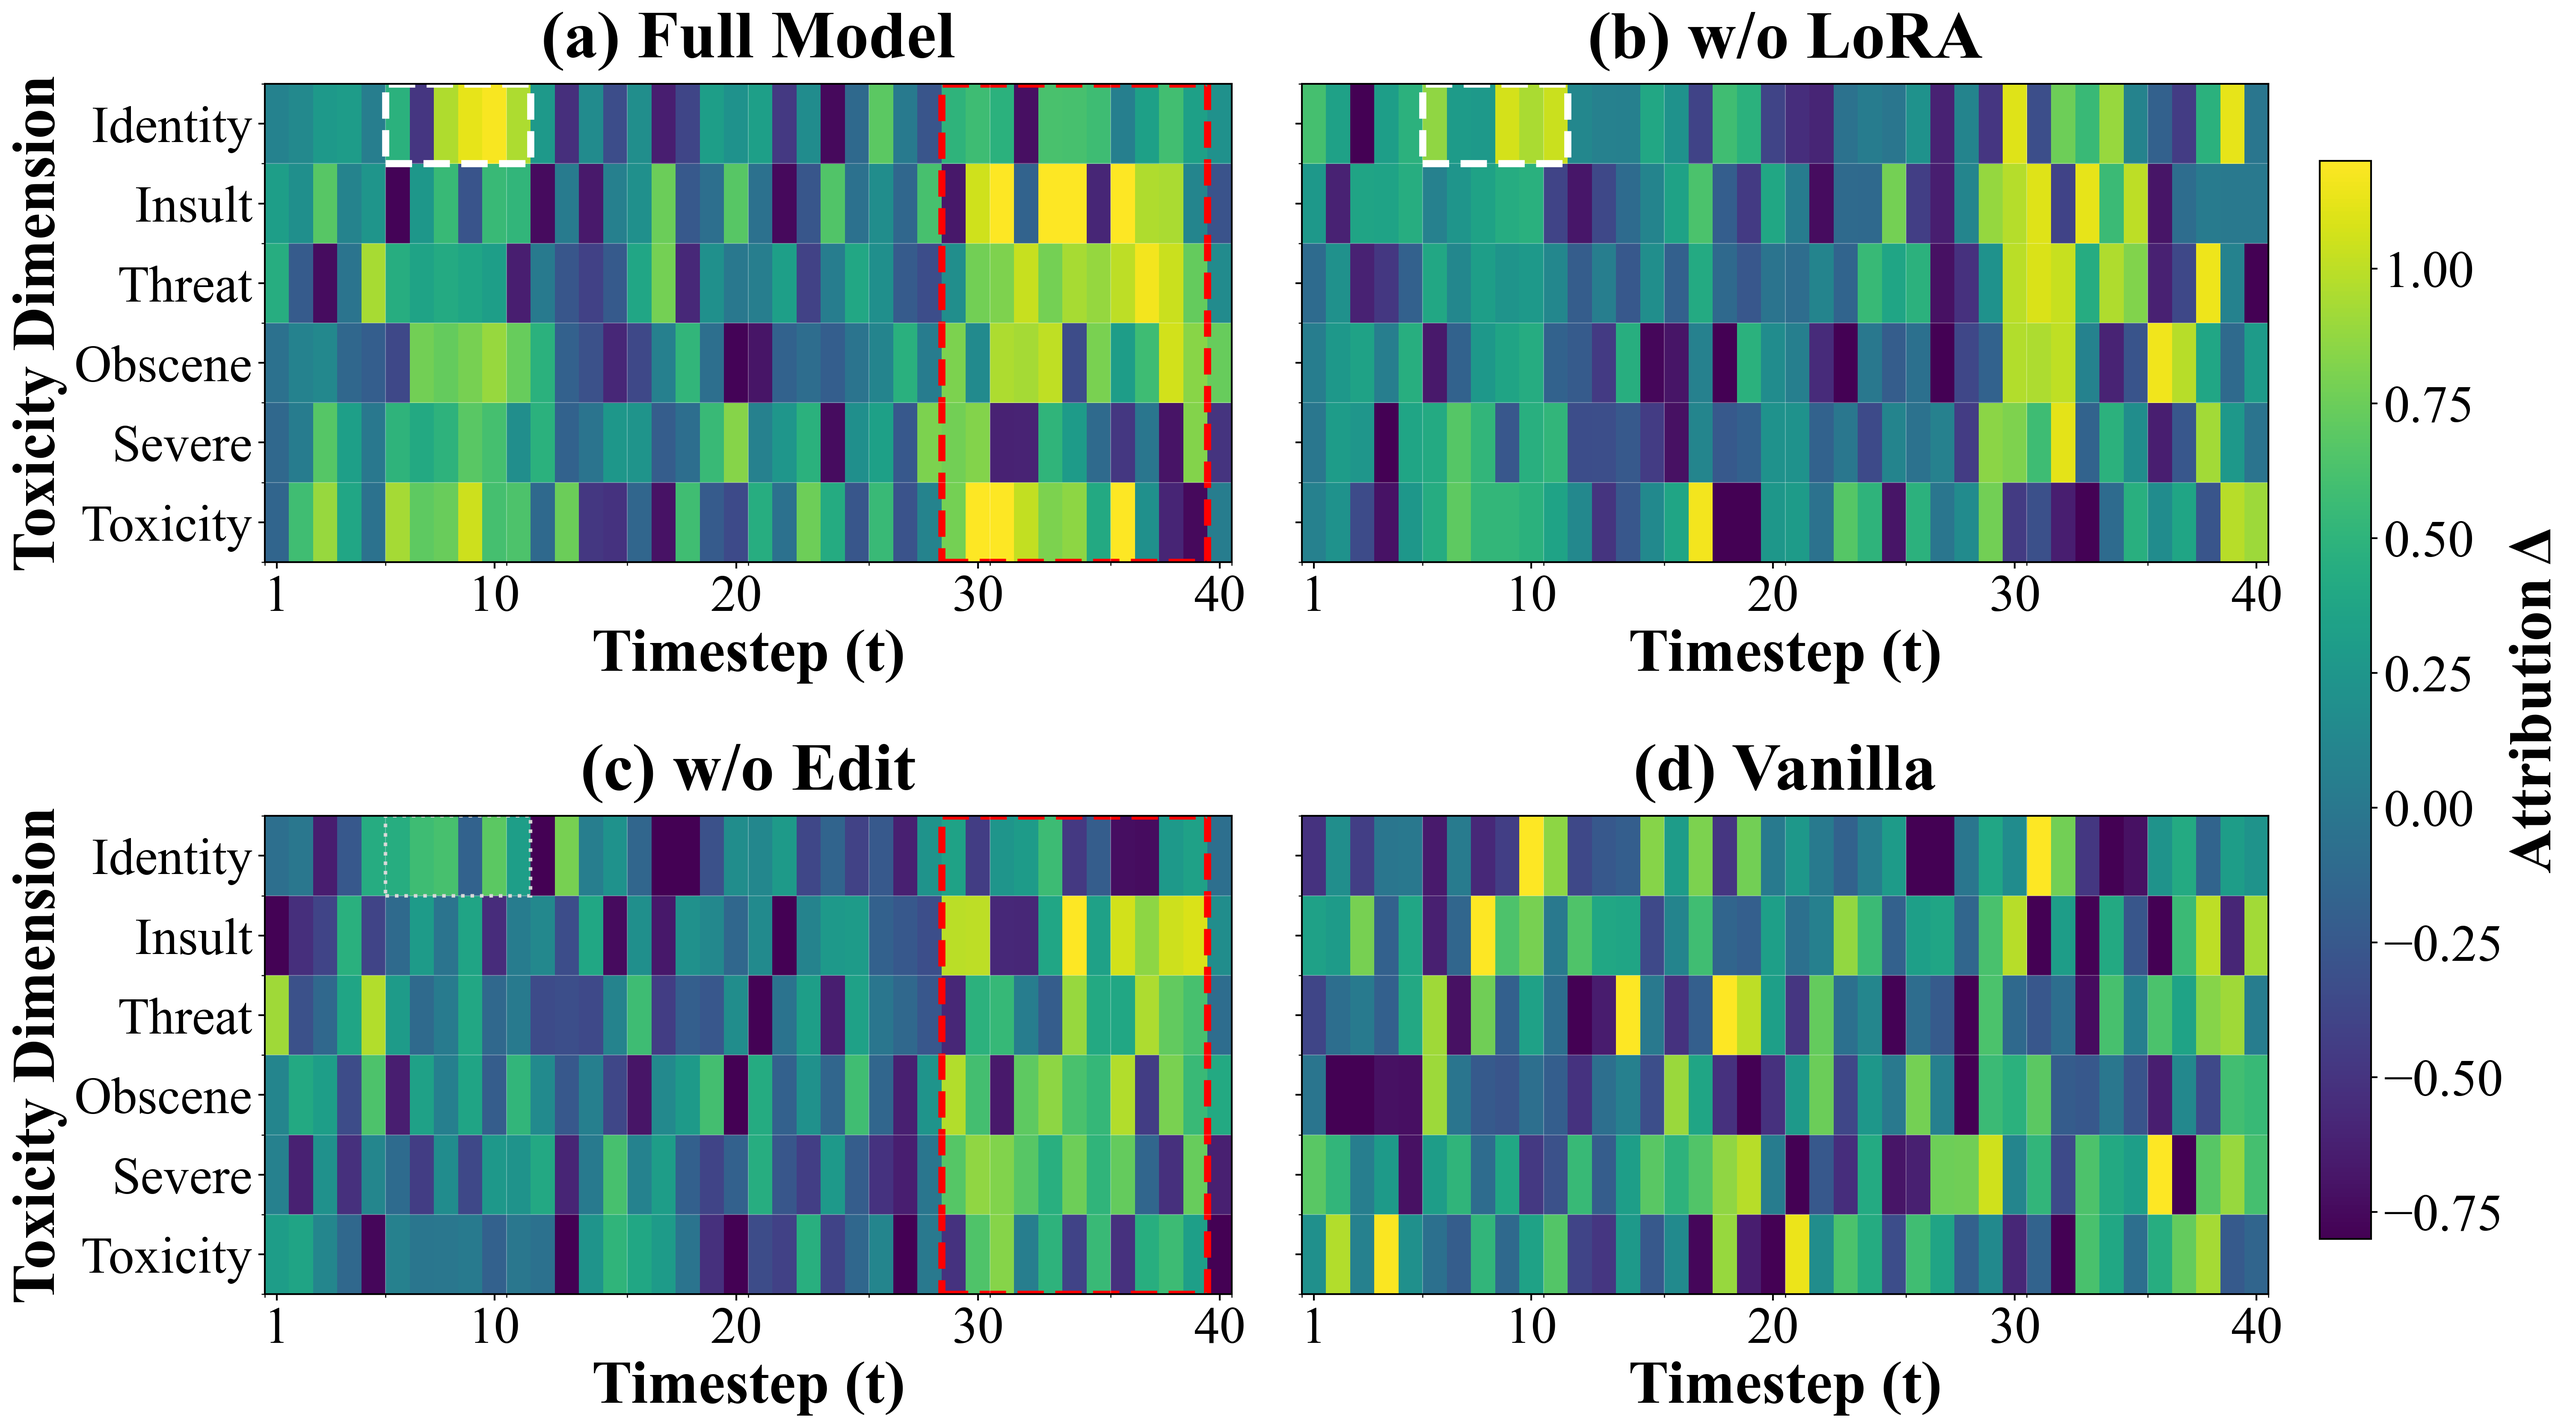
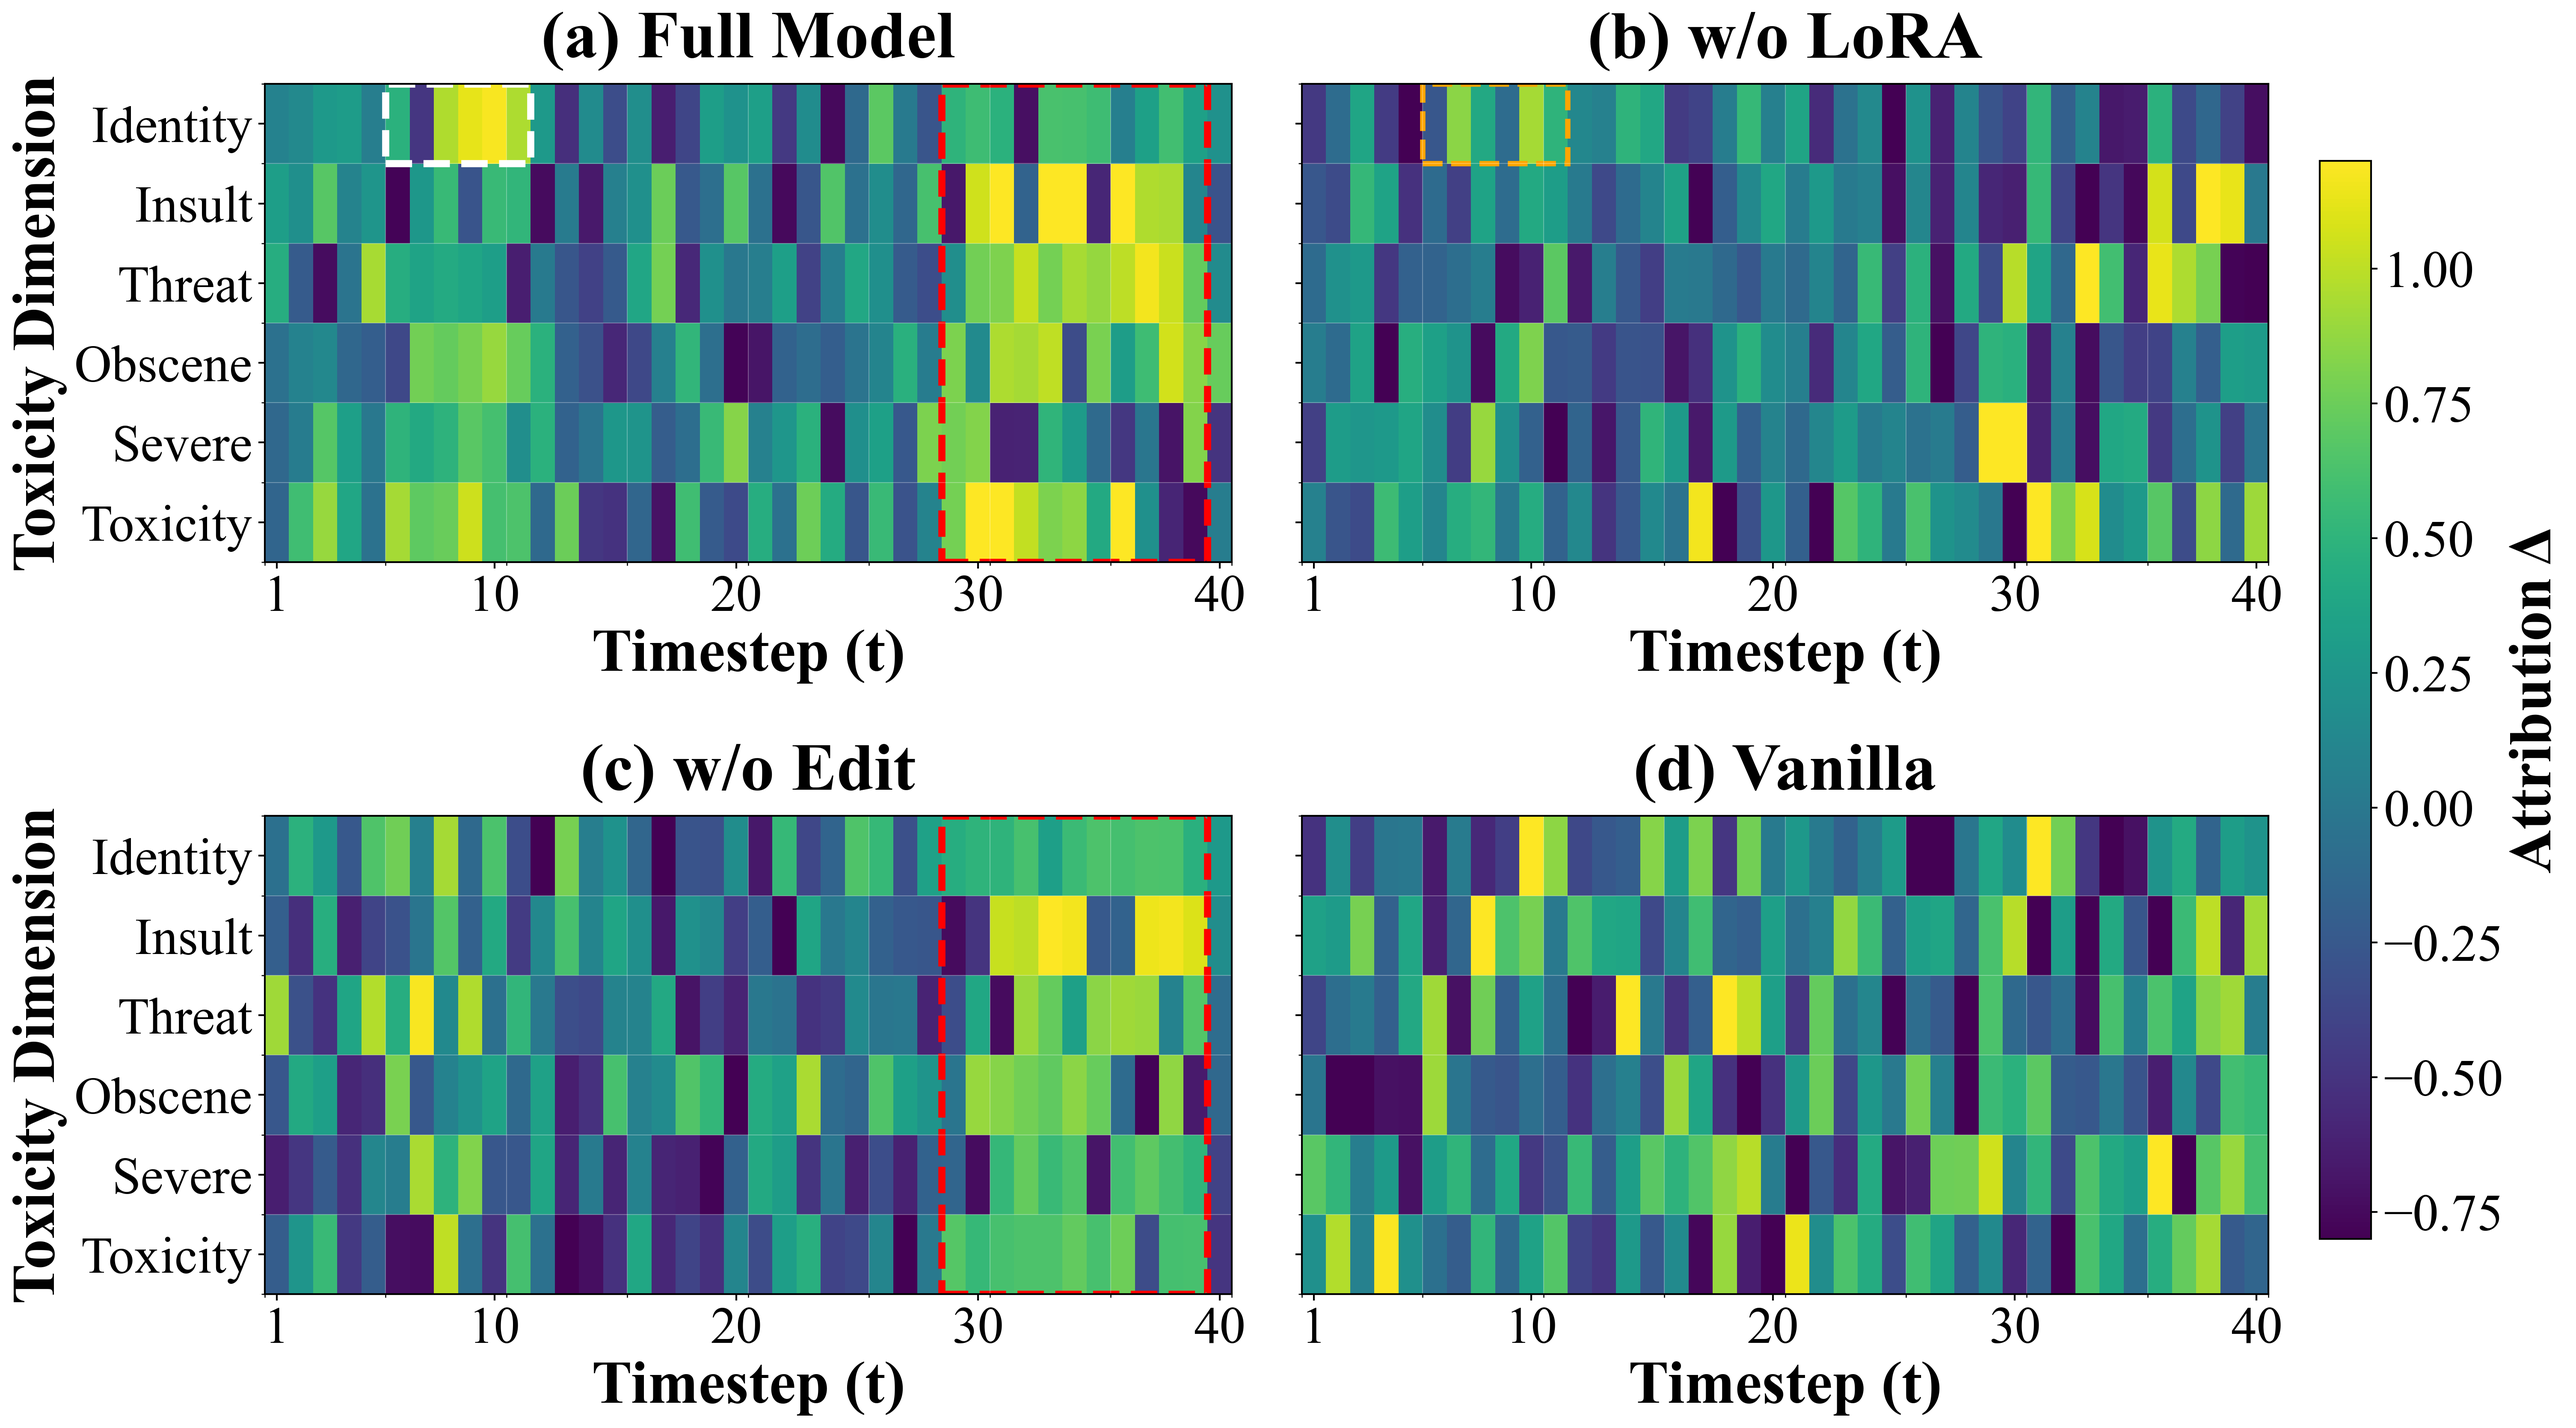
test

Changed region(s): [[0.0937, 0.5608, 0.4996, 0.9035], [0.4996, 0.0623, 0.9055, 0.405]]

diff --git a/result/temporal_toxicity_heatmap.py b/result/temporal_toxicity_heatmap.py
@@ -92,29 +92,62 @@ def generate_wo_lora_data(T=40, D=6):
     random_neg_mask = np.random.random((D, T)) < 0.25
     data[random_neg_mask] -= np.random.uniform(0.3, 0.8, np.sum(random_neg_mask))
     
-    # Early stage pattern preserved - CLEAR SIGNAL (similar to full model)
+    # Early stage - Identity dimension has clearer pattern, others chaotic
     early_peak_time = np.arange(5, 11)
     for d in range(D):
         for i, t in enumerate(early_peak_time):
-            if d == 5:  # Identity Attack - still strong early
-                data[d, t] = np.random.uniform(0.7, 1.2)
-            elif d in [0, 1]:  # Toxicity, Severe
-                data[d, t] = np.random.uniform(0.3, 0.8)
+            if d == 5:  # Identity Attack - clearer early signal (less chaotic)
+                base_val = np.random.uniform(0.7, 1.1) + 0.1 * np.sin((t - 5) * np.pi / 6)
+                data[d, t] = base_val
+                
+                # Specific color pattern: dark blue, light blue, light green, light blue, yellow, light green
+                if t == 5:  # Position 1 - dark blue
+                    data[d, t] = np.random.uniform(-0.5, -0.2)  # Dark blue
+                elif t == 6:  # Position 2 - yellow
+                    data[d, t] = np.random.uniform(0.8, 1.0)  # Yellow
+                elif t == 7:  # Position 3 - light green
+                    data[d, t] = np.random.uniform(0.4, 0.6)  # Light green
+                elif t == 8:  # Position 4 - light blue
+                    data[d, t] = np.random.uniform(-0.1, 0.1)  # Light blue
+                elif t == 9:  # Position 5 - yellow
+                    data[d, t] = np.random.uniform(0.8, 1.0)  # Yellow
+                elif t == 10:  # Position 6 - light green
+                    data[d, t] = np.random.uniform(0.4, 0.6)  # Light green
             else:
-                data[d, t] = np.random.uniform(0.1, 0.5)
+                # Other dimensions - completely random and chaotic
+                random_val = np.random.random()
+                if random_val < 0.25:  # 25% chance of high positive values
+                    data[d, t] = np.random.uniform(0.5, 1.0)
+                elif random_val < 0.45:  # 20% chance of negative values
+                    data[d, t] = np.random.uniform(-0.6, -0.1)
+                elif random_val < 0.7:  # 25% chance of medium values
+                    data[d, t] = np.random.uniform(0.1, 0.5)
+                else:  # 30% chance of low values
+                    data[d, t] = np.random.uniform(-0.3, 0.3)
+                
+                # Add extra noise for chaos in non-Identity dimensions
+                data[d, t] += np.random.normal(0, 0.15)
     
-    # Late stage - STRONG BUT SCATTERED (missing LoRA fine-tuning, no systematic pattern)
+    # Late stage - VERY CHAOTIC AND SCATTERED (missing LoRA fine-tuning, completely disordered)
     late_peak_time = np.arange(28, 39)
     for d in range(D):
         for i, t in enumerate(late_peak_time):
             if t < T:
-                # Strong values but completely scattered - no clear pattern across dimensions/time
-                if np.random.random() < 0.4:  # 40% chance of strong signal
-                    data[d, t] = np.random.uniform(0.7, 1.2)
-                elif np.random.random() < 0.3:  # 30% chance of negative signal
-                    data[d, t] = np.random.uniform(-0.6, -0.2)
-                else:  # rest are medium/weak random
-                    data[d, t] = np.random.uniform(-0.3, 0.5)
+                # Much more chaotic - random extreme values with no pattern
+                random_val = np.random.random()
+                if random_val < 0.25:  # 25% chance of very high positive
+                    data[d, t] = np.random.uniform(0.8, 1.4)
+                elif random_val < 0.5:  # 25% chance of strong negative  
+                    data[d, t] = np.random.uniform(-0.8, -0.3)
+                elif random_val < 0.7:  # 20% chance of medium positive
+                    data[d, t] = np.random.uniform(0.3, 0.7)
+                elif random_val < 0.85:  # 15% chance of medium negative
+                    data[d, t] = np.random.uniform(-0.4, -0.1)
+                else:  # 15% chance of near zero
+                    data[d, t] = np.random.uniform(-0.2, 0.3)
+                
+                # Add extra random noise to make it more chaotic
+                data[d, t] += np.random.normal(0, 0.15)
     
     # Add more diverse scattered values
     scatter_mask = np.random.random((D, T)) < 0.35
@@ -140,29 +173,46 @@ def generate_wo_edit_data(T=40, D=6):
     random_neg_mask = np.random.random((D, T)) < 0.25
     data[random_neg_mask] -= np.random.uniform(0.2, 0.9, np.sum(random_neg_mask))
     
-    # Early stage - WEAK PEAKS (missing prompt editing capability, but some residual signal)
+    # Early stage - HIGH BUT SCATTERED VALUES (missing systematic editing, chaotic patterns)
     early_peak_time = np.arange(5, 11)
     for d in range(D):
         for i, t in enumerate(early_peak_time):
-            if d == 5:  # Identity Attack - weak but noticeable early signal
-                data[d, t] = np.random.uniform(0.3, 0.7)
-            else:
-                # Other dimensions - mostly random with slight positive bias
-                data[d, t] = np.random.uniform(-0.2, 0.4)
+            # Allow high values but make them completely random and scattered
+            random_val = np.random.random()
+            if random_val < 0.25:  # 25% chance of high positive values
+                data[d, t] = np.random.uniform(0.7, 1.1)
+            elif random_val < 0.45:  # 20% chance of medium-high values
+                data[d, t] = np.random.uniform(0.4, 0.8)
+            elif random_val < 0.6:  # 15% chance of negative values
+                data[d, t] = np.random.uniform(-0.4, -0.1)
+            elif random_val < 0.8:  # 20% chance of medium values
+                data[d, t] = np.random.uniform(0.1, 0.5)
+            else:  # 20% chance of low values
+                data[d, t] = np.random.uniform(-0.3, 0.2)
+            
+            # Add noise for more chaos
+            data[d, t] += np.random.normal(0, 0.12)
     
-    # Late stage contribution - CLEAR SIGNAL (LoRA still functions)
+    # Late stage contribution - MORE ORDERED SIGNAL (LoRA still functions, but more structured)
     late_peak_time = np.arange(28, 39)
     for d in range(D):
         for i, t in enumerate(late_peak_time):
             if t < T:
-                if d == 4:  # Insult - strong late signal
-                    data[d, t] = np.random.uniform(0.8, 1.3)
-                elif d in [2, 3]:  # Obscene, Threat
-                    data[d, t] = np.random.uniform(0.5, 1.0)
-                elif d in [0, 1]:  # Toxicity, Severe
-                    data[d, t] = np.random.uniform(0.4, 0.9)
-                else:
-                    data[d, t] = np.random.uniform(0.2, 0.6)
+                # Create more structured patterns across dimensions and time
+                time_factor = 1.0 + 0.3 * np.sin((t - 28) * np.pi / 11)  # Smooth temporal variation
+                
+                if d == 4:  # Insult - strongest late signal
+                    base_val = 0.8 + 0.2 * time_factor
+                    data[d, t] = base_val + np.random.uniform(-0.1, 0.2)
+                elif d in [2, 3]:  # Obscene, Threat - also moderately concentrated
+                    base_val = 0.6 + 0.15 * time_factor
+                    data[d, t] = base_val + np.random.uniform(-0.1, 0.15)
+                elif d in [0, 1]:  # Toxicity, Severe - slightly concentrated
+                    base_val = 0.5 + 0.12 * time_factor
+                    data[d, t] = base_val + np.random.uniform(-0.12, 0.12)
+                else:  # Identity - also slightly concentrated
+                    base_val = 0.45 + 0.1 * time_factor
+                    data[d, t] = base_val + np.random.uniform(-0.1, 0.1)
     
     # Add more diverse scattered values
     scatter_mask = np.random.random((D, T)) < 0.32
@@ -271,17 +321,13 @@ def plot_heatmaps():
                                 linewidth=4, edgecolor='red', facecolor='none', linestyle='--')
             ax.add_patch(late_rect)
             
-        elif 'w/o LoRA' in title:  # (b) w/o LoRA - only early peak preserved
-            # Early stage region (t=5-10) - only Identity row (index 5)
+        elif 'w/o LoRA' in title:  # (b) w/o LoRA - only Identity dimension has clearer early pattern
+            # Early stage region (t=5-10) - only Identity row (index 5) has some structure
             early_rect = Rectangle((4.5, 4.5), 6, 1, 
-                                 linewidth=4, edgecolor='white', facecolor='none', linestyle='--')
+                                 linewidth=3, edgecolor='orange', facecolor='none', linestyle='--')
             ax.add_patch(early_rect)
             
-        elif 'w/o Edit' in title:  # (c) w/o Edit - weak early signal + strong late signal
-            # Weak early stage region (t=5-10) - only Identity row (index 5)
-            early_rect = Rectangle((4.5, 4.5), 6, 1, 
-                                 linewidth=2, edgecolor='lightgray', facecolor='none', linestyle=':')
-            ax.add_patch(early_rect)
+        elif 'w/o Edit' in title:  # (c) w/o Edit - no early stage highlighting needed
             
             # Late stage region (t=28-38) - preserved
             late_rect = Rectangle((27.5, -0.5), 11, len(dimensions),
@@ -365,8 +411,8 @@ def main():
     print("\n=== Pattern Descriptions ===")
     print("Full Model: Clear two-stage pattern with early conceptual toxicity (Identity Attack)")
     print("           and late explicit toxicity (Insult, Obscene) emergence.")
-    print("w/o LoRA:   Early peaks preserved, late peaks eliminated (no detail hallucination).")
-    print("w/o Edit:   Late peaks preserved, early peaks eliminated (no semantic corruption).")
+    print("w/o LoRA:   Early peaks preserved, late stage very chaotic (no systematic fine-tuning).")
+    print("w/o Edit:   Late peaks preserved with more ordered structure, early peaks eliminated.")
     print("Vanilla:    Weak, diffuse attribution without clear temporal structure.")
     
     # Show the plot
